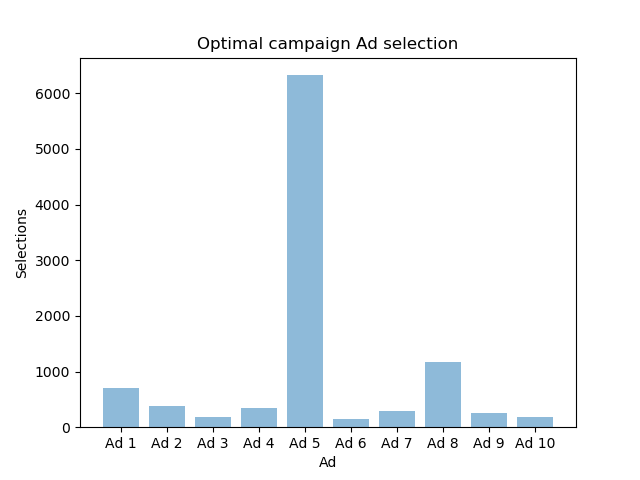
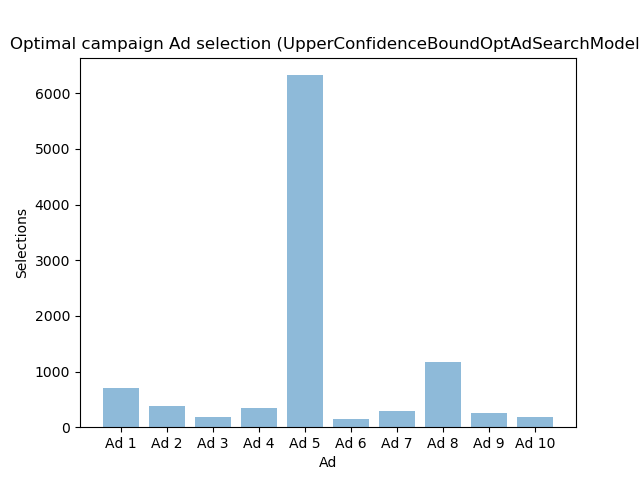
Implement Thompson sampling model

Changed region(s): [[0.0, 0.0625, 1.0, 0.125]]

diff --git a/models/optimal_campaign_ad_search/upper_confidence_bound_model.py b/models/optimal_campaign_ad_search/upper_confidence_bound_model.py
@@ -1,58 +1,21 @@
 import math
-import pandas as pd
-import os.path
-import joblib
-import matplotlib.pyplot as plt
-import numpy as np
-import decamelize
+
+import optimal_campaign_ad_search_base_model as base_model
 
 
-dirname = os.path.dirname(__file__)
-
-class UpperConfidenceBoundOptAdSearchModel:
-    # File of the dataset used to train the model
-    __dataset_filename = 'dataset.csv'
-    _persisted_models_dirname = 'persisted_models_data'
-
+class UpperConfidenceBoundOptAdSearchModel(base_model.OptAdSearchBaseModel):
     def __init__(self):
         super().__init__()
-        # File to stored the serialized version of the model
-        self.model_name = self.__class__.__name__
-        
-        model_decamelized = decamelize.convert(self.model_name)
-
-        self.__number_of_options = 10
-        self.__sum_of_rewards = [0] * self.__number_of_options
-        self.__number_of_times_selected = [0] * self.__number_of_options
-        self.__round_count = 0
-        self.__model_filename = self._persisted_models_dirname + '/' + model_decamelized + "_serialized.sav"
-        self.__model_plot_filename = self._persisted_models_dirname + '/' + model_decamelized + "_plot.png"
- 
-    """Trains the model with initial data
-    """
-    def train(self, total_of_rounds = 10000):
-        dataset = pd.read_csv(dirname + '/' + self.__dataset_filename)
-        items = dataset.values
-    
-        for n in range(0, total_of_rounds):
-            option = self.optimal_option()
-            reward = items[n, option]
-            self.add_option_reward(option, reward)
-
-    """Add a reward to a taken option
-    """
-    def add_option_reward(self, option, reward):
-        self.__number_of_times_selected[option] = self.__number_of_times_selected[option] + 1
-        self.__sum_of_rewards[option] = self.__sum_of_rewards[option] + reward 
+        self.__sum_of_rewards = [0] * self._number_of_options
 
     """Finds the optimal option to take
     """
     def optimal_option(self):
+        self._increase_round_count()
         max_ucb = 0
         selected_option = 0
-        self.__round_count = self.__round_count + 1
 
-        for option in range(0, self.__number_of_options):
+        for option in range(0, self._number_of_options):
             ucb = self.__upper_confidence_bound(option)
             if ucb > max_ucb:
                 max_ucb = ucb
@@ -63,10 +26,10 @@ class UpperConfidenceBoundOptAdSearchModel:
     """Loads the serialized model
     """
     def load(self):
-        data = self._load_object(self.__model_filename)
+        data = self._load_object(self._model_filename)
         self.__sum_of_rewards = data['sum_of_rewards']
-        self.__number_of_times_selected = data['number_of_times_selected']
-        self.__round_count = data['round_count']
+        self._number_of_times_selected = data['number_of_times_selected']
+        self._round_count = data['round_count']
 
 
     """Save a serialized version of the model to a file
@@ -74,42 +37,26 @@ class UpperConfidenceBoundOptAdSearchModel:
     def save(self):
         data = {
             'sum_of_rewards': self.__sum_of_rewards,
-            'number_of_times_selected': self.__number_of_times_selected,
-            'round_count': self.__round_count,
+            'number_of_times_selected': self._number_of_times_selected,
+            'round_count': self._round_count,
         }
-        self._save_object(data, self.__model_filename)
-        self.__plot()
+        self._save_object(data, self._model_filename)
+        self._plot()
 
-    def _save_object(self, obj, filename):
-        joblib.dump(obj, dirname + '/' + filename)
-    
-    def _load_object(self, filename):
-        return joblib.load(dirname + '/' + filename)
-
-    def __plot(self):
-        plt.title('Optimal campaign Ad selection')
-        plt.xlabel('Ad')
-        plt.ylabel('Selections')
-
-        options =  ['Ad ' + str(i + 1) for i in range(0, self.__number_of_options)]
-        positions = np.arange(len(options))
-        plt.bar(positions, self.__number_of_times_selected, align='center', alpha=0.5)
-        plt.xticks(positions, options)
-
-        plt.savefig(dirname + '/' + self.__model_plot_filename)
-        plt.clf()
+    def _update_option_reward(self, option, reward):
+        self.__sum_of_rewards[option] = self.__sum_of_rewards[option] + reward 
 
     def __upper_confidence_bound(self, option):
-        if self.__number_of_times_selected[option] > 0:
+        if self._number_of_times_selected[option] > 0:
             return self.__average_reward(option) + self.__confidence_interval_delta(option)
         # A big value to make sure options that has not been selected
         # get selected
         return 10000000000000
 
     def __confidence_interval_delta(self, option):
-        numerator = 3 * math.log(self.__round_count)
-        denominator = 2 * self.__number_of_times_selected[option]
+        numerator = 3 * math.log(self._round_count)
+        denominator = 2 * self._number_of_times_selected[option]
         return math.sqrt(numerator / denominator)
 
     def __average_reward(self, option):
-        return self.__sum_of_rewards[option] / self.__number_of_times_selected[option]
+        return self.__sum_of_rewards[option] / self._number_of_times_selected[option]

diff --git a/models/optimal_campaign_ad_search/optimal_campaign_ad_search_base_model.py b/models/optimal_campaign_ad_search/optimal_campaign_ad_search_base_model.py
@@ -1,0 +1,90 @@
+import math
+import pandas as pd
+import os.path
+import joblib
+import matplotlib.pyplot as plt
+import numpy as np
+import decamelize
+
+
+dirname = os.path.dirname(__file__)
+
+class OptAdSearchBaseModel:
+    # File of the dataset used to train the model
+    __dataset_filename = 'dataset.csv'
+    _persisted_models_dirname = 'persisted_models_data'
+
+    def __init__(self):
+        # File to stored the serialized version of the model
+        self.model_name = self.__class__.__name__
+        
+        model_decamelized = decamelize.convert(self.model_name)
+
+        self._number_of_options = 10
+        self._number_of_times_selected = [0] * self._number_of_options
+        self._round_count = 0
+        self._model_filename = self._persisted_models_dirname + '/' + model_decamelized + "_serialized.sav"
+        self.__model_plot_filename = self._persisted_models_dirname + '/' + model_decamelized + "_plot.png"
+
+ 
+    """Trains the model with initial data
+    """
+    def train(self, total_of_rounds = 10000):
+        dataset = pd.read_csv(dirname + '/' + self.__dataset_filename)
+        items = dataset.values
+    
+        for n in range(0, total_of_rounds):
+            option = self.optimal_option()
+            reward = items[n, option]
+            self.add_option_reward(option, reward)
+
+
+    """Add a reward to a taken option
+    """
+    def add_option_reward(self, option, reward):
+        self.__increase_selections_count(option)
+        self._update_option_reward(option, reward)
+
+    """Finds the optimal option to take
+    """
+    def optimal_option(self):
+        raise Exception('Method not implemented')
+
+    """Loads the serialized model
+    """
+    def load(self):
+        raise Exception('Method not implemented')
+
+    """Save a serialized version of the model to a file
+    """
+    def save(self):
+        raise Exception('Method not implemented')
+
+    def _update_option_reward(self, option, reward):
+        raise Exception('Method not implemented')
+
+    def _save_object(self, obj, filename):
+        joblib.dump(obj, dirname + '/' + filename)
+    
+    def _load_object(self, filename):
+        return joblib.load(dirname + '/' + filename)
+
+    def __increase_selections_count(self, option):
+        self._number_of_times_selected[option] = self._number_of_times_selected[option] + 1
+
+    def _increase_round_count(self):
+        self._round_count = self._round_count + 1
+
+
+    def _plot(self):
+        plt.title('Optimal campaign Ad selection (' + self.model_name + ')')
+        plt.xlabel('Ad')
+        plt.ylabel('Selections')
+
+        options =  ['Ad ' + str(i + 1) for i in range(0, self._number_of_options)]
+        positions = np.arange(len(options))
+        plt.bar(positions, self._number_of_times_selected, align='center', alpha=0.5)
+        plt.xticks(positions, options)
+
+        plt.savefig(dirname + '/' + self.__model_plot_filename)
+        plt.clf()

diff --git a/models/optimal_campaign_ad_search/thompson_sampling_model.py b/models/optimal_campaign_ad_search/thompson_sampling_model.py
@@ -1,0 +1,56 @@
+import random
+
+import optimal_campaign_ad_search_base_model as base_model
+
+
+class ThompsonSamplingOptAdSearchModel(base_model.OptAdSearchBaseModel):
+    def __init__(self):
+        super().__init__()
+        self.__rewards_counts = [
+            [0] * self._number_of_options,
+            [0] * self._number_of_options,
+        ]
+
+    """Finds the optimal option to take
+    """
+    def optimal_option(self):
+        self._increase_round_count()
+        max_random = 0
+        selected_option = 0
+
+        for option in range(0, self._number_of_options):
+            random_beta = self.__random_beta(option)
+            if random_beta > max_random:
+                max_random = random_beta
+                selected_option = option
+
+        return selected_option
+
+    """Loads the serialized model
+    """
+    def load(self):
+        data = self._load_object(self._model_filename)
+        self.__rewards_counts = data['rewards_counts']
+        self._number_of_times_selected = data['number_of_times_selected']
+        self._round_count = data['round_count']
+
+
+    """Save a serialized version of the model to a file
+    """
+    def save(self):
+        data = {
+            'rewards_counts': self.__rewards_counts,
+            'number_of_times_selected': self._number_of_times_selected,
+            'round_count': self._round_count,
+        }
+        self._save_object(data, self._model_filename)
+        self._plot()
+
+    def _update_option_reward(self, option, reward):
+        self.__rewards_counts[reward][option] = self.__rewards_counts[reward][option] + 1
+
+    def __random_beta(self, option):
+        return random.betavariate(
+            self.__rewards_counts[1][option] + 1,
+            self.__rewards_counts[0][option] + 1,
+        )

diff --git a/models/optimal_campaign_ad_search/train.py b/models/optimal_campaign_ad_search/train.py
@@ -1,23 +1,31 @@
 from upper_confidence_bound_model import UpperConfidenceBoundOptAdSearchModel
+from thompson_sampling_model import ThompsonSamplingOptAdSearchModel
 
 title = 'Training optimal campaign ad search models'
 
 print(title + ': Start')
 
 ucb_model = UpperConfidenceBoundOptAdSearchModel()
+thompson_model = ThompsonSamplingOptAdSearchModel()
 
 ucb_model.train()
+thompson_model.train()
 
 print('\n Saving models')
 ucb_model.save()
+thompson_model.save()
 
 print('\n Loading models')
 ucb_model.load()
+thompson_model.load()
 
-option = ucb_model.optimal_option()
+ucb_option = ucb_model.optimal_option()
+thompson_option = thompson_model.optimal_option()
 
-print('\n Ad selected ' + str(option + 1))
+print('\n Ad selected UCB: ' + str(ucb_option + 1))
+print('\n Ad selected Thompson Sampling: ' + str(thompson_option + 1))
 
-ucb_model.add_option_reward(option , 1)
+ucb_model.add_option_reward(ucb_option , 1)
+ucb_model.add_option_reward(thompson_option , 1)
 
 print(title + ': End')

diff --git a/models/optimal_campaign_ad_search/Readme.md b/models/optimal_campaign_ad_search/Readme.md
@@ -13,6 +13,7 @@ See `dataset.csv` for more details of the data.
 ## Solution
 For this problem it was tested with the following models:
   1. Upper Confidence Bound model.
+  2. Thompson Sampling model
 
 ## Results
 
@@ -21,11 +22,24 @@ For Upper Confidence Bound model after finishing the training, it has converged 
 
 <img src="persisted_models_data/upper_confidence_bound_opt_ad_search_model_plot.png " width="350">
 
-## Results
+The UCB for 500 hundred rounds could not converge to the optimal value.
+<img src="persisted_models_data/upper_confidence_bound_opt_ad_search_500_rounds_model_plot.png " width="350">
+
+### Thompson Sampling model
+For Thompson Sampling model after finishing the training, it has also converged to an optimal option that is the fifth one.
+
+<img src="persisted_models_data/thompson_sampling_opt_ad_search_model_plot.png " width="350">
+
+The Thompson sampling model has converged faster than the UCB as it is shown in the following graph that correspond to 500 rounds.
+<img src="persisted_models_data/thompson_sampling_opt_ad_search_500_rounds_model_plot.png " width="350">
 
 ## Relevant files
 
+- optimal_campaign_ad_search_base_model.py: Optimal Campaign Ad search base model.
+
 - upper_confidence_bound_model.py: Upper Confidence Bound model implementation.
+
+- thompson_sampling_model.py: Thompson Samplin model implementation.
 
 - dataset.csv: Dataset
 
